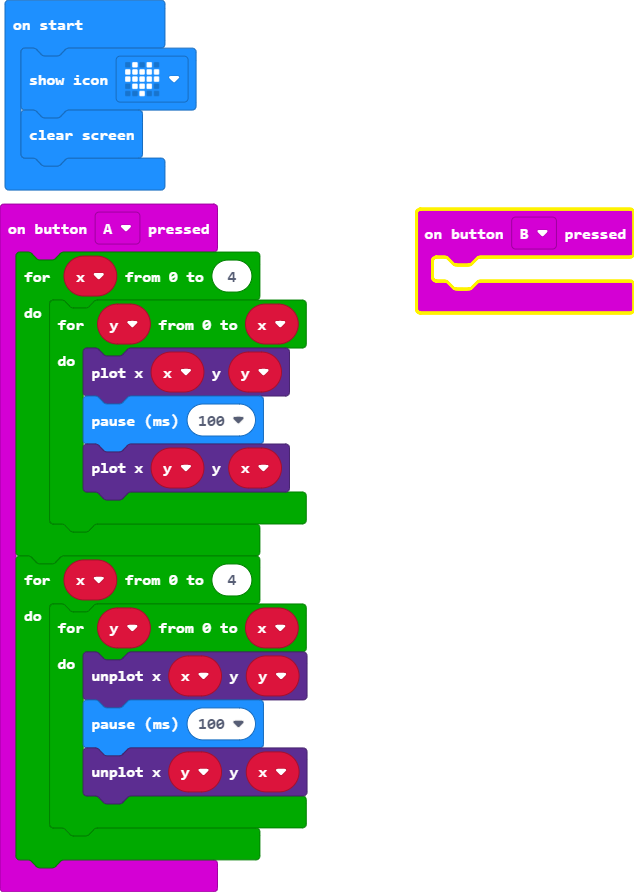
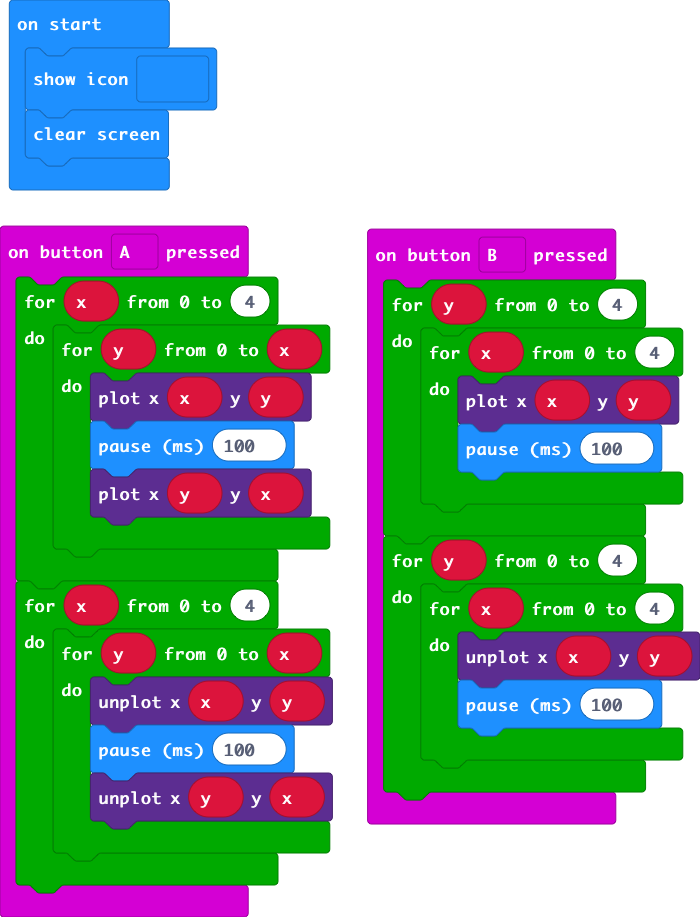
Update pxt.json, main.blocks, main.ts

diff --git a/main.ts b/main.ts
@@ -15,7 +15,18 @@ input.onButtonPressed(Button.A, function () {
     }
 })
 input.onButtonPressed(Button.B, function () {
-	
+    for (let y = 0; y <= 4; y++) {
+        for (let x = 0; x <= 4; x++) {
+            led.plot(x, y)
+            basic.pause(100)
+        }
+    }
+    for (let y = 0; y <= 4; y++) {
+        for (let x = 0; x <= 4; x++) {
+            led.unplot(x, y)
+            basic.pause(100)
+        }
+    }
 })
 basic.showIcon(IconNames.Heart)
 basic.clearScreen()
